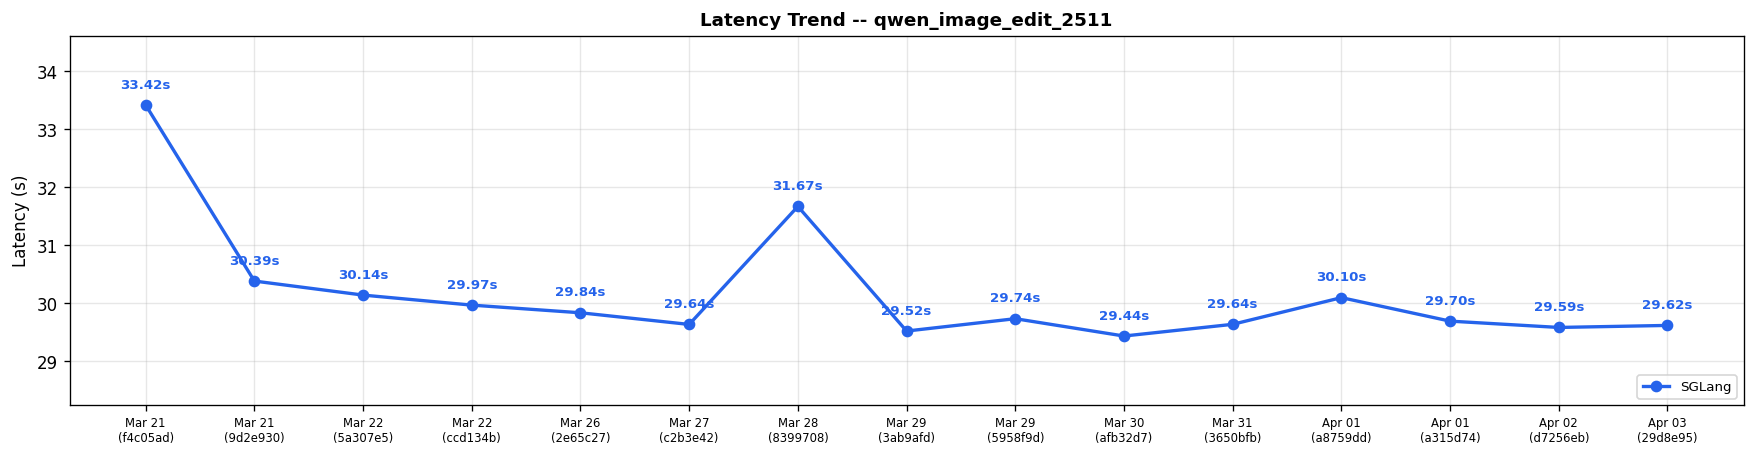
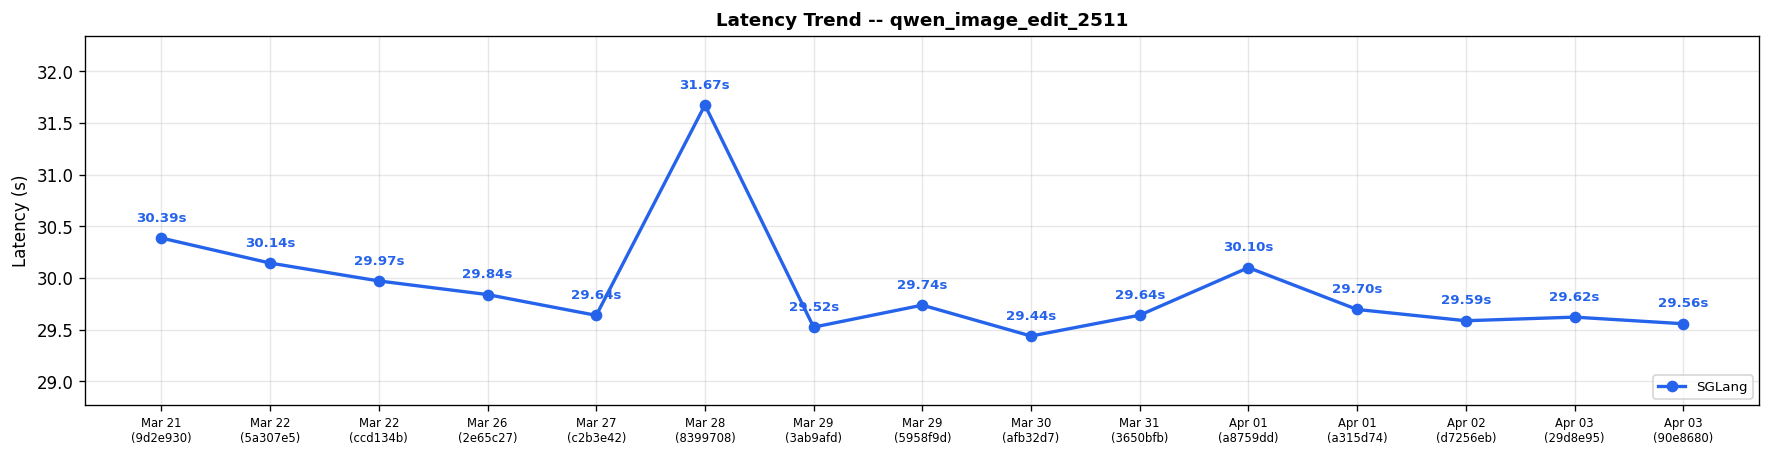
Diffusion comparison results for run 23964472159 (#22)

diff --git a/diffusion-comparisons/dashboard.md b/diffusion-comparisons/dashboard.md
@@ -1,24 +1,25 @@
 # Diffusion Cross-Framework Performance Dashboard
 
-*Generated: Apr 03 | Commit: `29d8e95`*
+*Generated: Apr 03 | Commit: `90e8680`*
 
 ## Cross-Framework Performance Comparison
 
 | Model | Risk | sglang (s) |
 |-------|------|---------|
-| FLUX.1-dev | ✅ | **6.69** |
-| FLUX.2-dev | ✅ | **22.88** |
-| Qwen-Image-2512 | ✅ | **13.55** |
-| Qwen-Image-Edit-2511 | ✅ | **29.62** |
+| FLUX.1-dev | ✅ | **6.72** |
+| FLUX.2-dev | ✅ | **22.89** |
+| Qwen-Image-2512 | ✅ | **13.57** |
+| Qwen-Image-Edit-2511 | ✅ | **29.56** |
 | Z-Image-Turbo | ✅ | **0.93** |
-| Wan2.2-T2V-A14B-Diffusers | ✅ | **16.57** |
-| Wan2.2-TI2V-5B-Diffusers | ✅ | **62.18** |
-| Wan2.2-I2V-A14B-Diffusers | ✅ | **21.07** |
+| Wan2.2-T2V-A14B-Diffusers | ✅ | **16.09** |
+| Wan2.2-TI2V-5B-Diffusers | ✅ | **62.17** |
+| Wan2.2-I2V-A14B-Diffusers | ✅ | **21.06** |
 
 ## SGLang Performance Trend (Last 15 Runs)
 
 | Date | Commit | flux1_dev_t2i_1024 (s) | flux2_dev_t2i_1024 (s) | qwen_image_2512_t2i_1024 (s) | qwen_image_edit_2511 (s) | zimage_turbo_t2i_1024 (s) | wan22_t2v_a14b_720p (s) | wan22_ti2v_5b_720p (s) | wan22_i2v_a14b_720p (s) | Trend |
 |------|--------|---------|---------|---------|---------|---------|---------|---------|---------|-------|
+| Apr 03 | `90e8680` | 6.72 | 22.89 | 13.57 | 29.56 | 0.93 | 16.09 | 62.17 | 21.06 | :left_right_arrow:  :left_right_arrow:  :left_right_arrow:  :left_right_arrow:  :left_right_arrow:  :arrow_down:  :left_right_arrow:  :left_right_arrow: |
 | Apr 03 | `29d8e95` | 6.69 | 22.88 | 13.55 | 29.62 | 0.93 | 16.57 | 62.18 | 21.07 | :left_right_arrow:  :left_right_arrow:  :arrow_up:  :left_right_arrow:  :left_right_arrow:  :arrow_up:  :left_right_arrow:  :arrow_down: |
 | Apr 02 | `d7256eb` | 6.70 | 22.87 | 13.18 | 29.59 | 0.93 | 16.11 | 62.20 | 22.07 | :left_right_arrow:  :left_right_arrow:  :left_right_arrow:  :left_right_arrow:  :left_right_arrow:  :left_right_arrow:  :left_right_arrow:  :left_right_arrow: |
 | Apr 01 | `a315d74` | 6.70 | 22.89 | 13.30 | 29.70 | 0.92 | 16.20 | 62.19 | 22.08 | :left_right_arrow:  :left_right_arrow:  :left_right_arrow:  :left_right_arrow:  :left_right_arrow:  :left_right_arrow:  :left_right_arrow:  :arrow_up: |
@@ -32,8 +33,7 @@
 | Mar 26 | `2e65c27` | 6.77 | 22.75 | 13.31 | 29.84 | 0.94 | 16.06 | 62.23 | 10.04 | :left_right_arrow:  :left_right_arrow:  :arrow_down:  :left_right_arrow:  :arrow_down:  :left_right_arrow:  :left_right_arrow:  :left_right_arrow: |
 | Mar 22 | `ccd134b` | 6.69 | 22.58 | 13.58 | 29.97 | 1.96 | 16.10 | 62.17 | 10.04 | :left_right_arrow:  :left_right_arrow:  :arrow_down:  :left_right_arrow:  :arrow_down:  :left_right_arrow:  :left_right_arrow:  :left_right_arrow: |
 | Mar 22 | `5a307e5` | 6.70 | 22.62 | 14.09 | 30.14 | 2.01 | 16.13 | 62.20 | 10.04 | :left_right_arrow:  :left_right_arrow:  :arrow_up:  :left_right_arrow:  :arrow_up:  :left_right_arrow:  :left_right_arrow:  :arrow_up: |
-| Mar 21 | `9d2e930` | 6.77 | 22.77 | 13.71 | 30.39 | 1.93 | 16.14 | 62.15 | 9.03 | :arrow_down:  :arrow_down:  :arrow_down:  :arrow_down:  :arrow_down:  :arrow_down:  :arrow_down:  :arrow_down: |
-| Mar 21 | `f4c05ad` | 7.25 | 23.89 | 14.66 | 33.42 | 2.04 | 19.25 | 70.19 | 10.04 | -- |
+| Mar 21 | `9d2e930` | 6.77 | 22.77 | 13.71 | 30.39 | 1.93 | 16.14 | 62.15 | 9.03 | -- |
 
 ### Latency Trend: flux1_dev_t2i_1024
 
